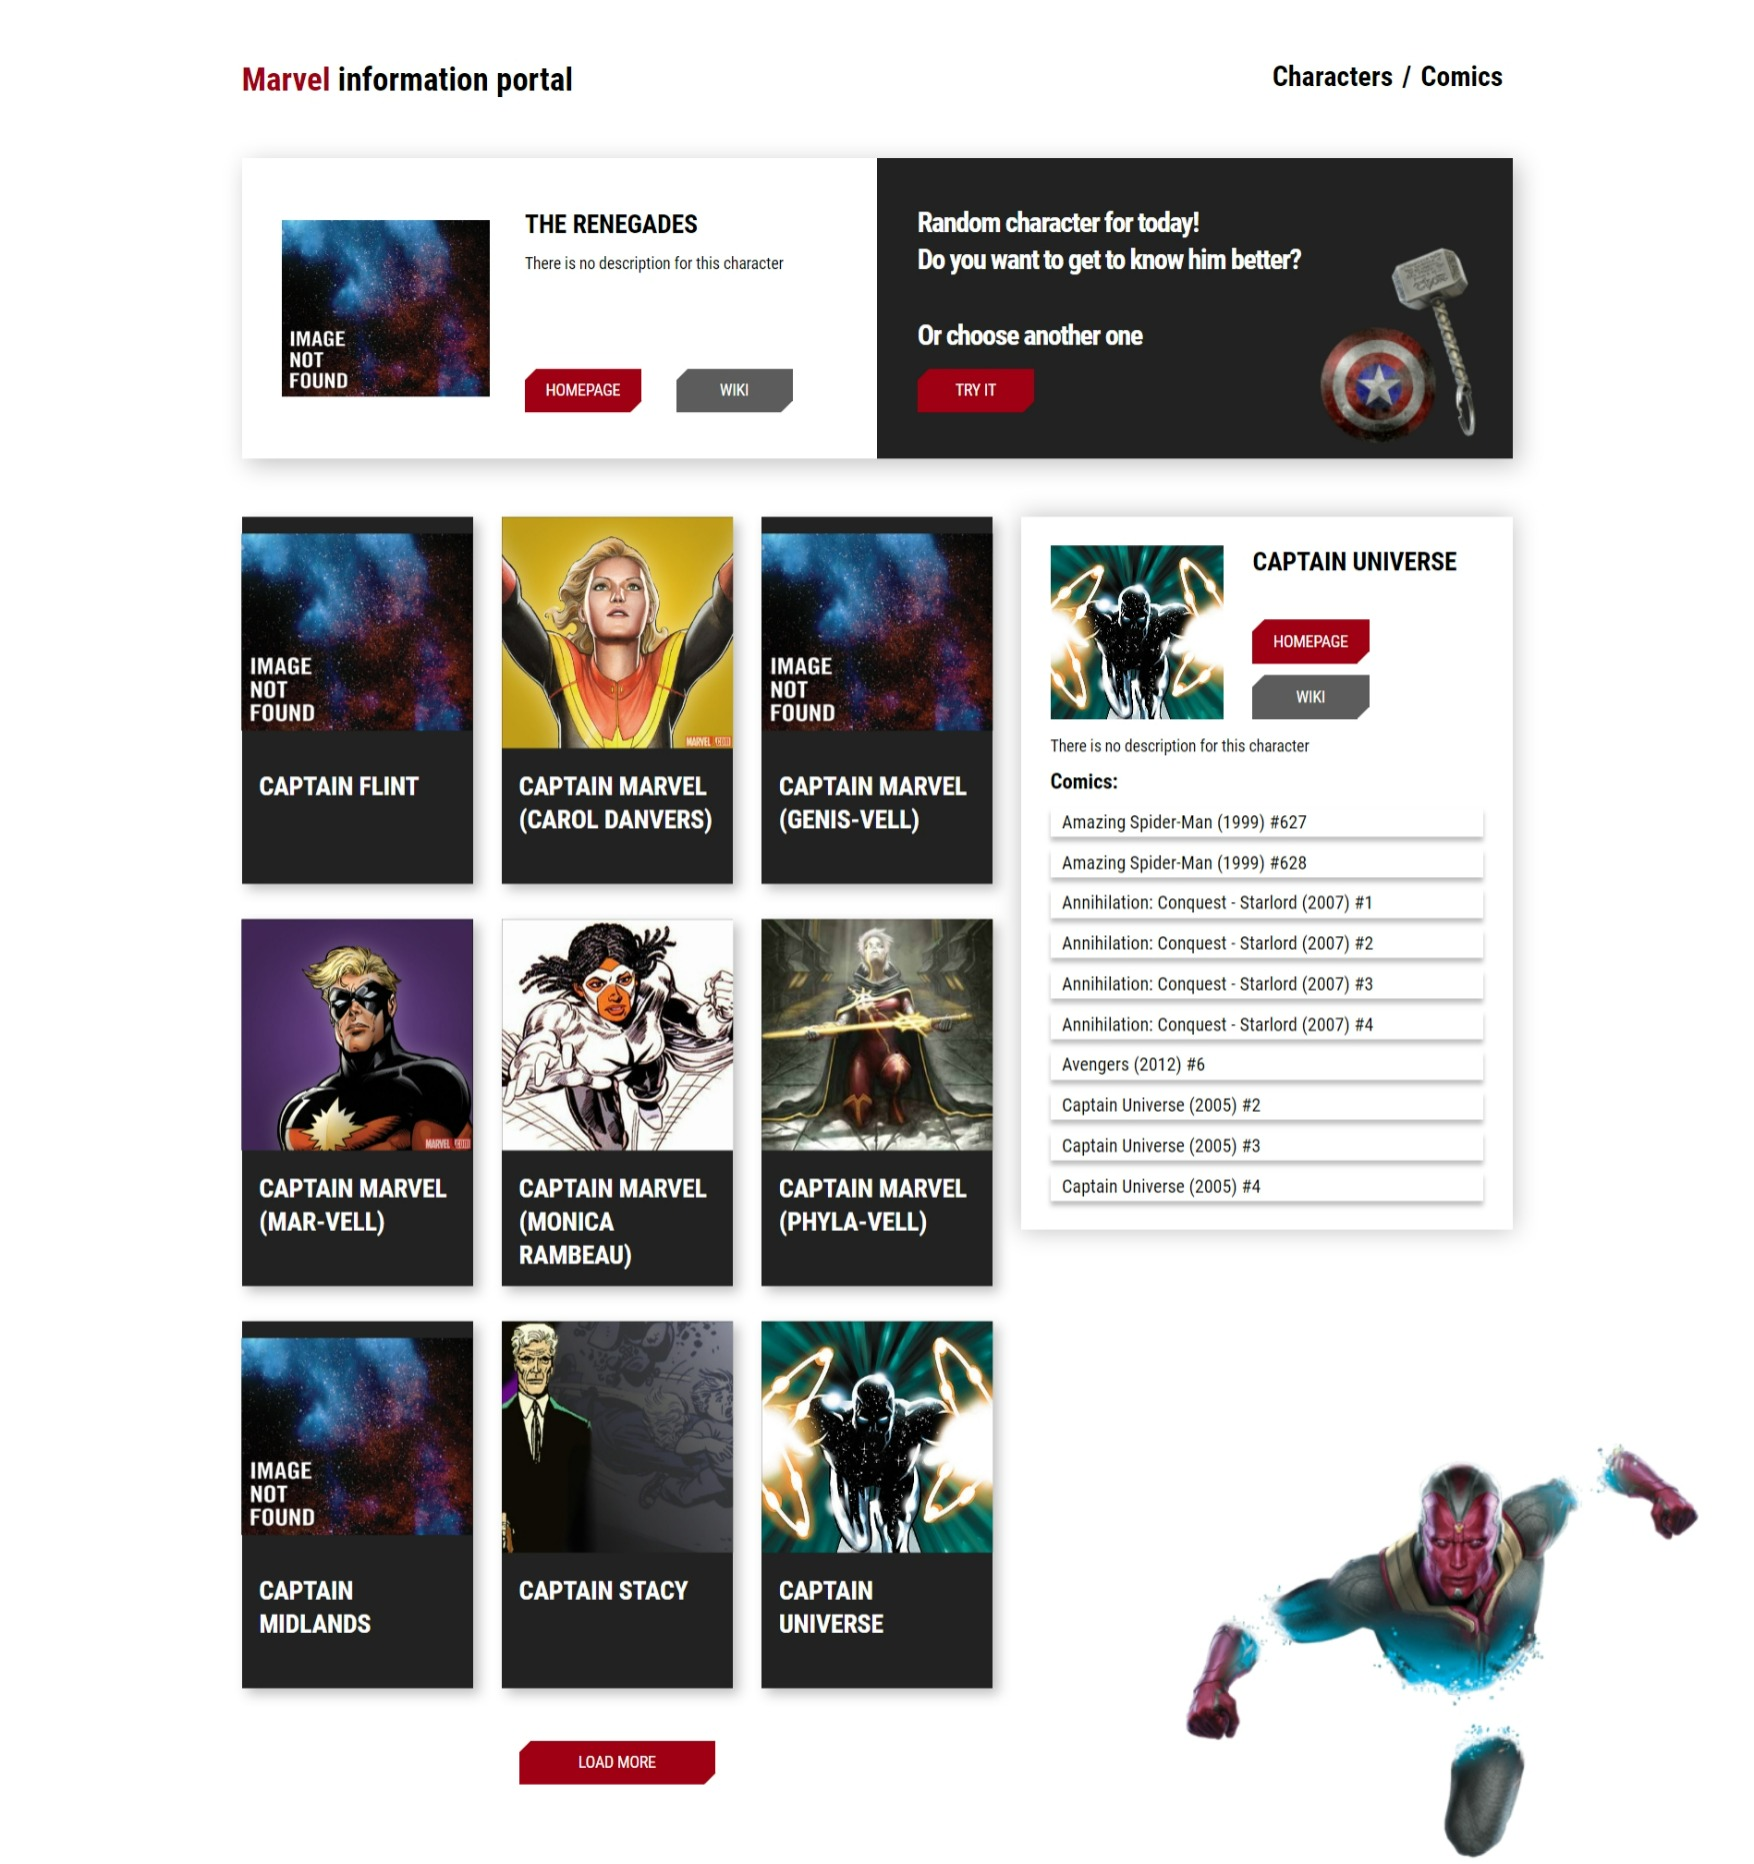
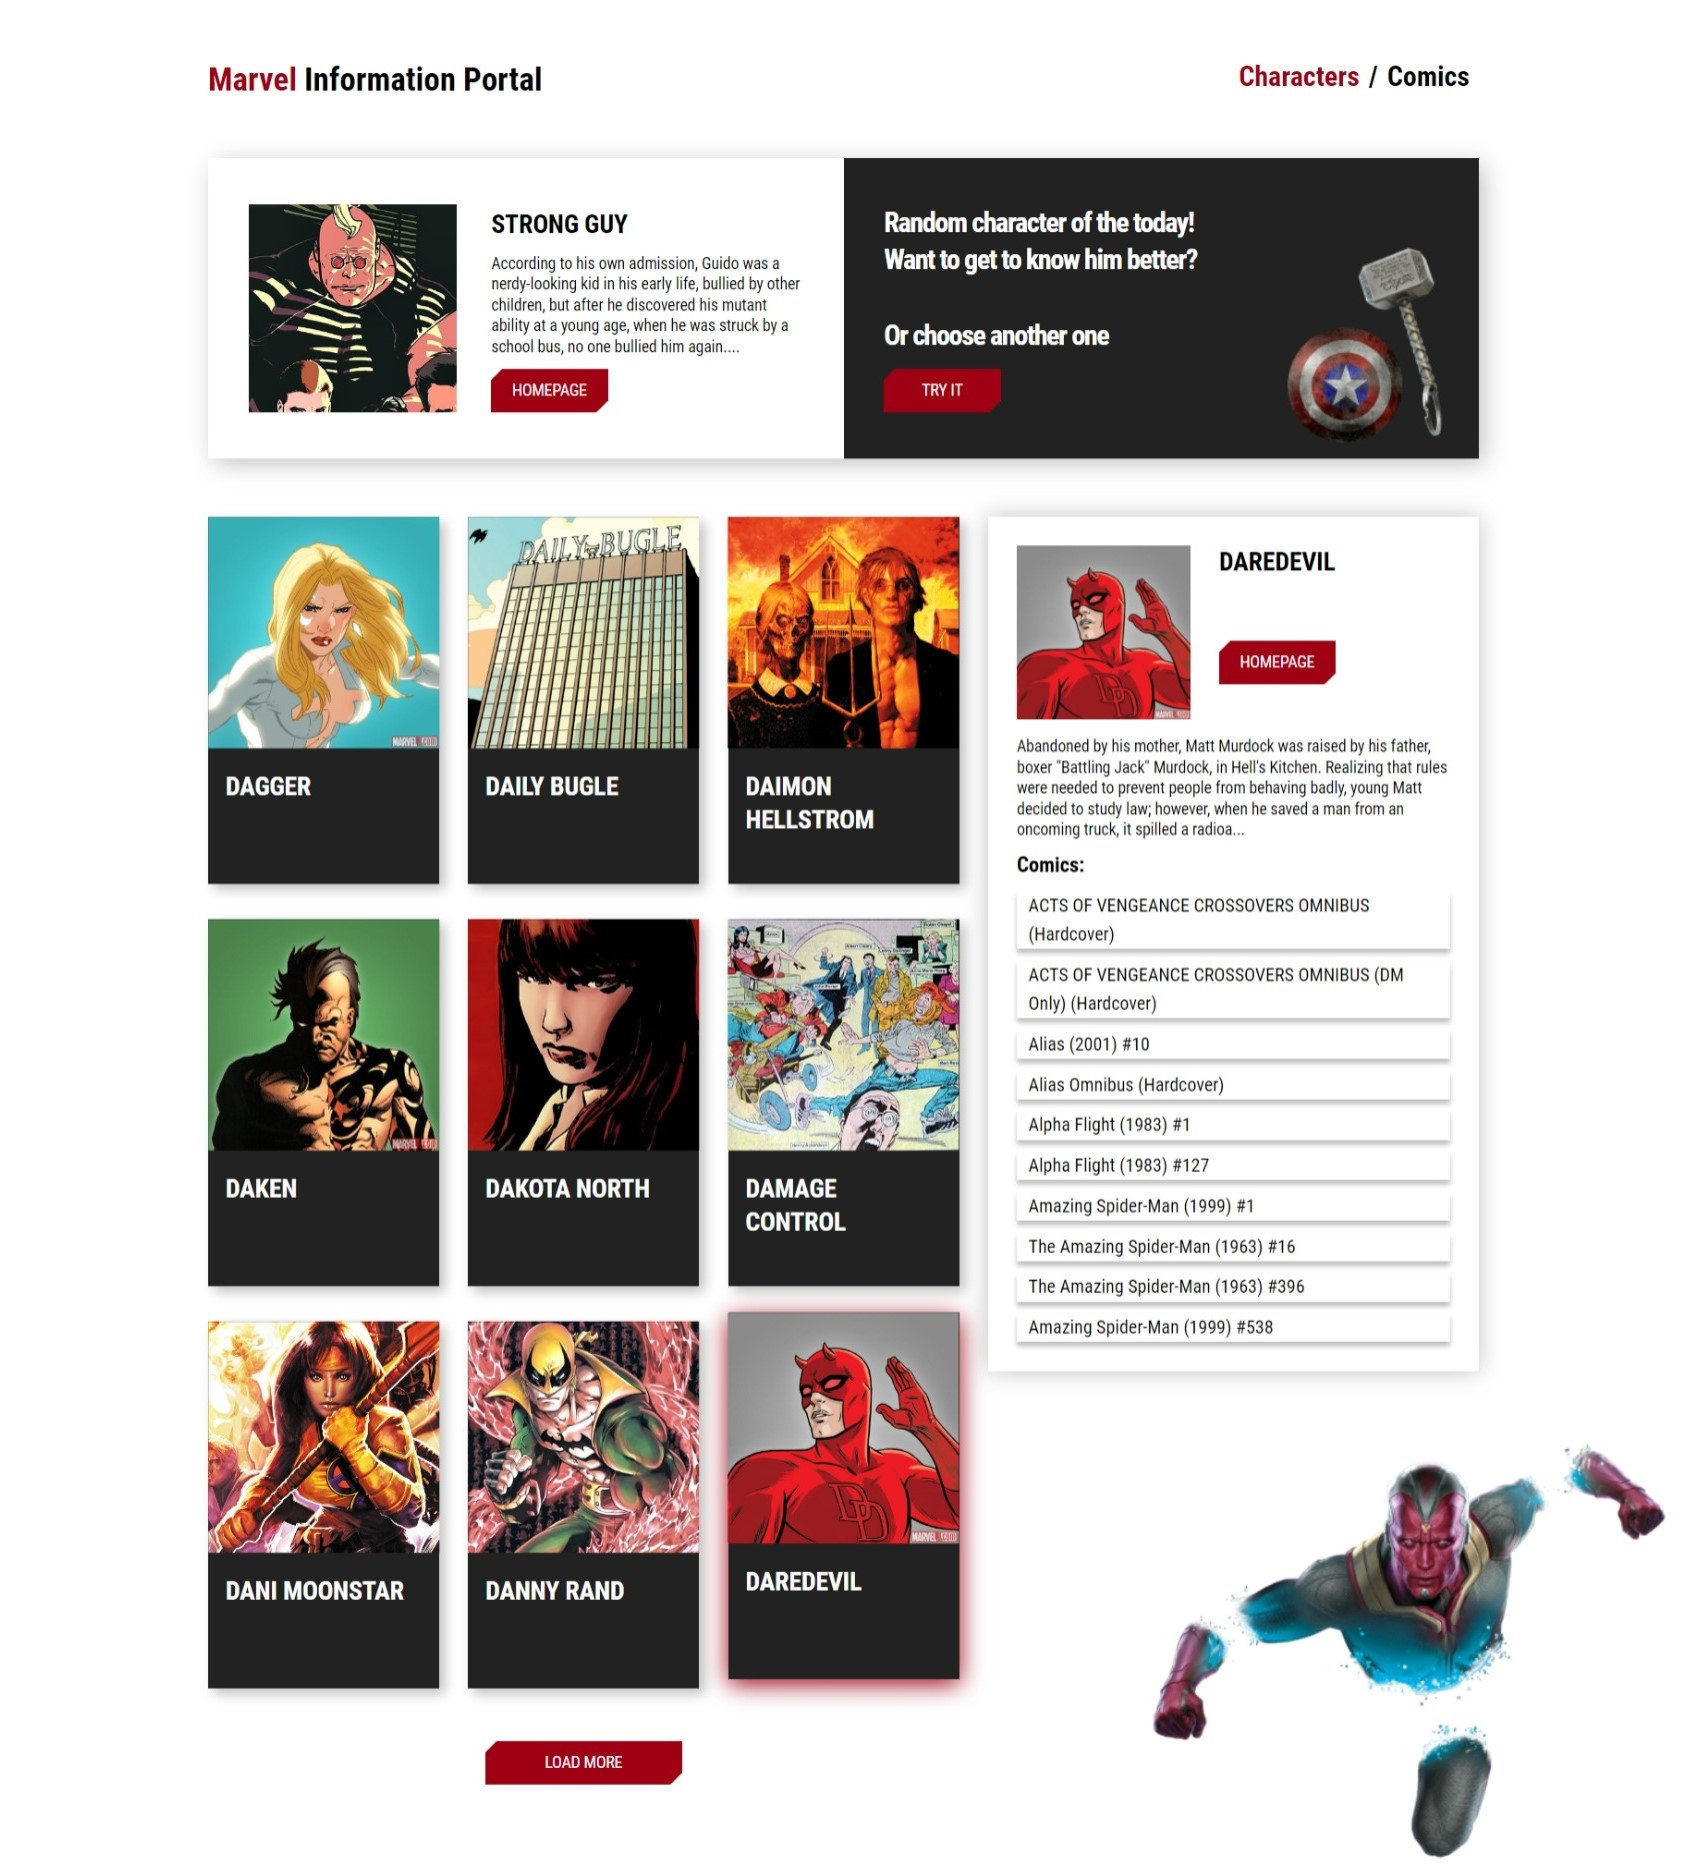
update build for gh-pages

diff --git a/src/components/charInfo/charInfo.scss b/src/components/charInfo/charInfo.scss
@@ -1,65 +1,61 @@
-@import '../../style/variables.scss';
+@import "../../style/variables.scss";
 
 .char {
-    &__info {
-        padding: 25px;
-        box-shadow: 0px 0px 20px rgba(0, 0, 0, 0.25);
-        position: relative;
-        z-index: 5;
-        background-color: #fff;
-        &-name {
-            font-weight: bold;
-            font-size: 22px;
-            line-height: 29px;
-            text-transform: uppercase;
-        }
-        .skeleton {
-            margin-top: 30px;
-        }
+  &__info {
+    padding: 25px;
+    box-shadow: 0px 0px 20px rgba(0, 0, 0, 0.25);
+    position: relative;
+    z-index: 5;
+    background-color: #fff;
+    &-name {
+      font-weight: bold;
+      font-size: 22px;
+      line-height: 29px;
+      text-transform: uppercase;
     }
-    &__basics {
-        display: grid;
-        grid-template-columns: 150px auto;
-        column-gap: 25px;
-        img {
-            width: 150px;
-            height: 150px;
-            object-fit: cover;
-        }
+    .skeleton {
+      margin-top: 30px;
     }
-    &__btns {
-        margin-top: 35px;
-        a:nth-child(2) {
-            margin-top: 10px;
-        }
+  }
+  &__basics {
+    display: grid;
+    grid-template-columns: 150px auto;
+    column-gap: 25px;
+    img {
+      width: 150px;
+      height: 150px;
+      object-fit: cover;
     }
-    &__descr {
-        margin-top: 15px;
-        font-size: 14px;
-        line-height: 18px;
+  }
+  &__btns {
+    margin-top: 53px;
+  }
+  &__descr {
+    margin-top: 15px;
+    font-size: 14px;
+    line-height: 18px;
+  }
+  &__comics {
+    font-weight: bold;
+    font-size: 18px;
+    line-height: 24px;
+    margin-top: 10px;
+    &-list {
+      position: relative;
+      margin-top: 10px;
     }
-    &__comics {
-        font-weight: bold;
-        font-size: 18px;
-        line-height: 24px;
-        margin-top: 10px;
-        &-list {
-            position: relative;
-            margin-top: 10px;
-        }
-        &-item {
-            width: 100%;
-            padding: 0px 10px;
-            line-height: 25px;
-            box-shadow: 0px 4px 4px rgba(0, 0, 0, 0.25);
-            margin-top: 10px;
-        }
+    &-item {
+      width: 100%;
+      padding: 0px 10px;
+      line-height: 25px;
+      box-shadow: 0px 4px 4px rgba(0, 0, 0, 0.25);
+      margin-top: 10px;
     }
-    &__select {
-        font-weight: bold;
-        font-size: 18px;
-        line-height: 24px;
-        text-align: center;
-    }
-
+  }
+  &__select {
+    font-weight: bold;
+    font-size: 18px;
+    line-height: 24px;
+    text-align: center;
+  }
 }

diff --git a/src/components/pages/singleComicPage.scss b/src/components/pages/singleComicPage.scss
@@ -1,39 +1,40 @@
-@import '../../style/variables.scss';
+@import "../../style/variables.scss";
 
 .single-comic {
-    margin-top: 50px;
-    display: grid;
-    grid-template-columns: 293px 550px auto;
-    column-gap: 50px;
-    align-items: start;
-    &__img {
-        width: 293px;
-        height: 450px;
+  margin-top: 50px;
+  display: grid;
+  grid-template-columns: 293px 550px auto;
+  column-gap: 50px;
+  align-items: start;
+  &__img {
+    width: 293px;
+    height: 450px;
+  }
+  &__name {
+    font-weight: bold;
+    font-size: 22px;
+    line-height: 29px;
+  }
+  &__descr {
+    font-size: 18px;
+    line-height: 24px;
+    margin-top: 25px;
+  }
+  &__price {
+    font-weight: bold;
+    font-size: 24px;
+    line-height: 32px;
+    color: $main-color;
+    margin-top: 25px;
+  }
+  &__back {
+    justify-self: end;
+    font-weight: bold;
+    font-size: 18px;
+    line-height: 24px;
+    cursor: pointer;
+    &:hover {
+      color: $main-color;
     }
-    &__name {
-        font-weight: bold;
-        font-size: 22px;
-        line-height: 29px;
-    }
-    &__descr {
-        font-size: 18px;
-        line-height: 24px;
-        margin-top: 25px;
-    }
-    &__price {
-        font-weight: bold;
-        font-size: 24px;
-        line-height: 32px;
-        color: $main-color;
-        margin-top: 25px;
-    }
-    &__back {
-        justify-self: end;
-        font-weight: bold;
-        font-size: 18px;
-        line-height: 24px;
-        &:hover {
-            color: $main-color;
-        }
-    }
+  }
 }

diff --git a/src/components/app/App.js b/src/components/app/App.js
@@ -1,6 +1,13 @@
+import { lazy, Suspense } from "react";
 import { Routes, Route, BrowserRouter, Navigate } from "react-router-dom";
-import { MainPage, ComicsPage, SingleComicPage, Page404 } from "../pages";
+
 import AppHeader from "../appHeader/AppHeader";
+import Spinner from "../spinner/Spinner";
+
+const Page404 = lazy(() => import("../pages/404"));
+const MainPage = lazy(() => import("../pages/MainPage"));
+const ComicsPage = lazy(() => import("../pages/ComicsPage"));
+const SingleComicPage = lazy(() => import("../pages/SingleComicPage"));
 
 const App = () => {
   return (
@@ -8,13 +15,15 @@ const App = () => {
       <div className="app">
         <AppHeader />
         <main>
-          <Routes>
-            <Route path="/" element={<MainPage />} />
-            <Route path="/marvel" element={<Navigate to="/" />} />
-            <Route path="/comics" element={<ComicsPage />} />
-            <Route path="/comics/:comicId" element={<SingleComicPage />} />
-            <Route path="/*" element={<Page404 />} />
-          </Routes>
+          <Suspense fallback={<Spinner />}>
+            <Routes>
+              <Route path="/" element={<MainPage />} />
+              <Route path="/marvel" element={<Navigate to="/" />} />
+              <Route path="/comics" element={<ComicsPage />} />
+              <Route path="/comics/:comicId" element={<SingleComicPage />} />
+              <Route path="/*" element={<Page404 />} />
+            </Routes>
+          </Suspense>
         </main>
       </div>
     </BrowserRouter>

diff --git a/src/components/pages/SingleComicPage.js b/src/components/pages/SingleComicPage.js
@@ -1,4 +1,4 @@
-import { useParams, Link } from "react-router-dom";
+import { useParams, useNavigate } from "react-router-dom";
 import { useState, useEffect } from "react";
 
 import useMarvelService from "../../services/MarvelService";
@@ -41,6 +41,7 @@ const SingleComicPage = () => {
 
 const View = ({ comic }) => {
   const { title, description, pageCount, thumbnail, language, price } = comic;
+  const navigate = useNavigate();
 
   return (
     <div className="single-comic">
@@ -52,9 +53,9 @@ const View = ({ comic }) => {
         <p className="single-comic__descr">Language: {language}</p>
         <div className="single-comic__price">{price}</div>
       </div>
-      <Link to="/comics" className="single-comic__back">
-        Back to all
-      </Link>
+      <div onClick={() => navigate(-1)} className="single-comic__back">
+        Back
+      </div>
     </div>
   );
 };

diff --git a/src/services/MarvelService.js b/src/services/MarvelService.js
@@ -5,7 +5,7 @@ const useMarvelService = () => {
 
   const _apiBase = "https://gateway.marvel.com:443/v1/public/";
   const _apiKey = "apikey=4940e9cbf92c4bbc34109f7eaa55c672";
-  const _baseOffset = 210;
+  const _baseOffset = 291;
 
   const getAllCharacters = async (offset = _baseOffset) => {
     const res = await request(
@@ -36,7 +36,7 @@ const useMarvelService = () => {
       id: char.id,
       name: char.name,
       description: char.description
-        ? `${char.description.slice(0, 210)}...`
+        ? `${char.description.slice(0, 291)}...`
         : "There is no description for this character",
       thumbnail: char.thumbnail.path + "." + char.thumbnail.extension,
       homepage: char.urls[0].url,

diff --git a/src/components/randomChar/RandomChar.js b/src/components/randomChar/RandomChar.js
@@ -40,9 +40,9 @@ const RandomChar = () => {
       {content}
       <div className="randomchar__static">
         <p className="randomchar__title">
-          Random character for today!
+          Random character of the today!
           <br />
-          Do you want to get to know him better?
+          Want to get to know him better?
         </p>
         <p className="randomchar__title">Or choose another one</p>
         <button onClick={updateChar} className="button button__main">

diff --git a/src/components/charList/CharList.js b/src/components/charList/CharList.js
@@ -10,7 +10,7 @@ import "./charList.scss";
 const CharList = (props) => {
   const [charList, setCharList] = useState([]);
   const [newItemLoading, setNewItemLoading] = useState(false);
-  const [offset, setOffset] = useState(210);
+  const [offset, setOffset] = useState(291);
   const [charEnded, setCharEnded] = useState(false);
   const { loading, error, getAllCharacters } = useMarvelService();
 

diff --git a/public/index.html b/public/index.html
@@ -2,7 +2,7 @@
 <html lang="en">
   <head>
     <meta charset="utf-8" />
-    <link rel="icon" href="%PUBLIC_URL%/favicon.ico" />
+    <link rel="icon" href="%PUBLIC_URL%/favicon.png" />
     <meta name="viewport" content="width=device-width, initial-scale=1" />
     <meta name="theme-color" content="#000000" />
     <meta name="description" content="Marvel Information Portal" />

diff --git a/src/style/style.scss b/src/style/style.scss
@@ -47,6 +47,10 @@ input::-webkit-inner-spin-button {
   margin: 0;
 }
 
+body {
+  background: #fff9;
+}
+
 .app {
   width: 1100px;
   margin: 0 auto;
